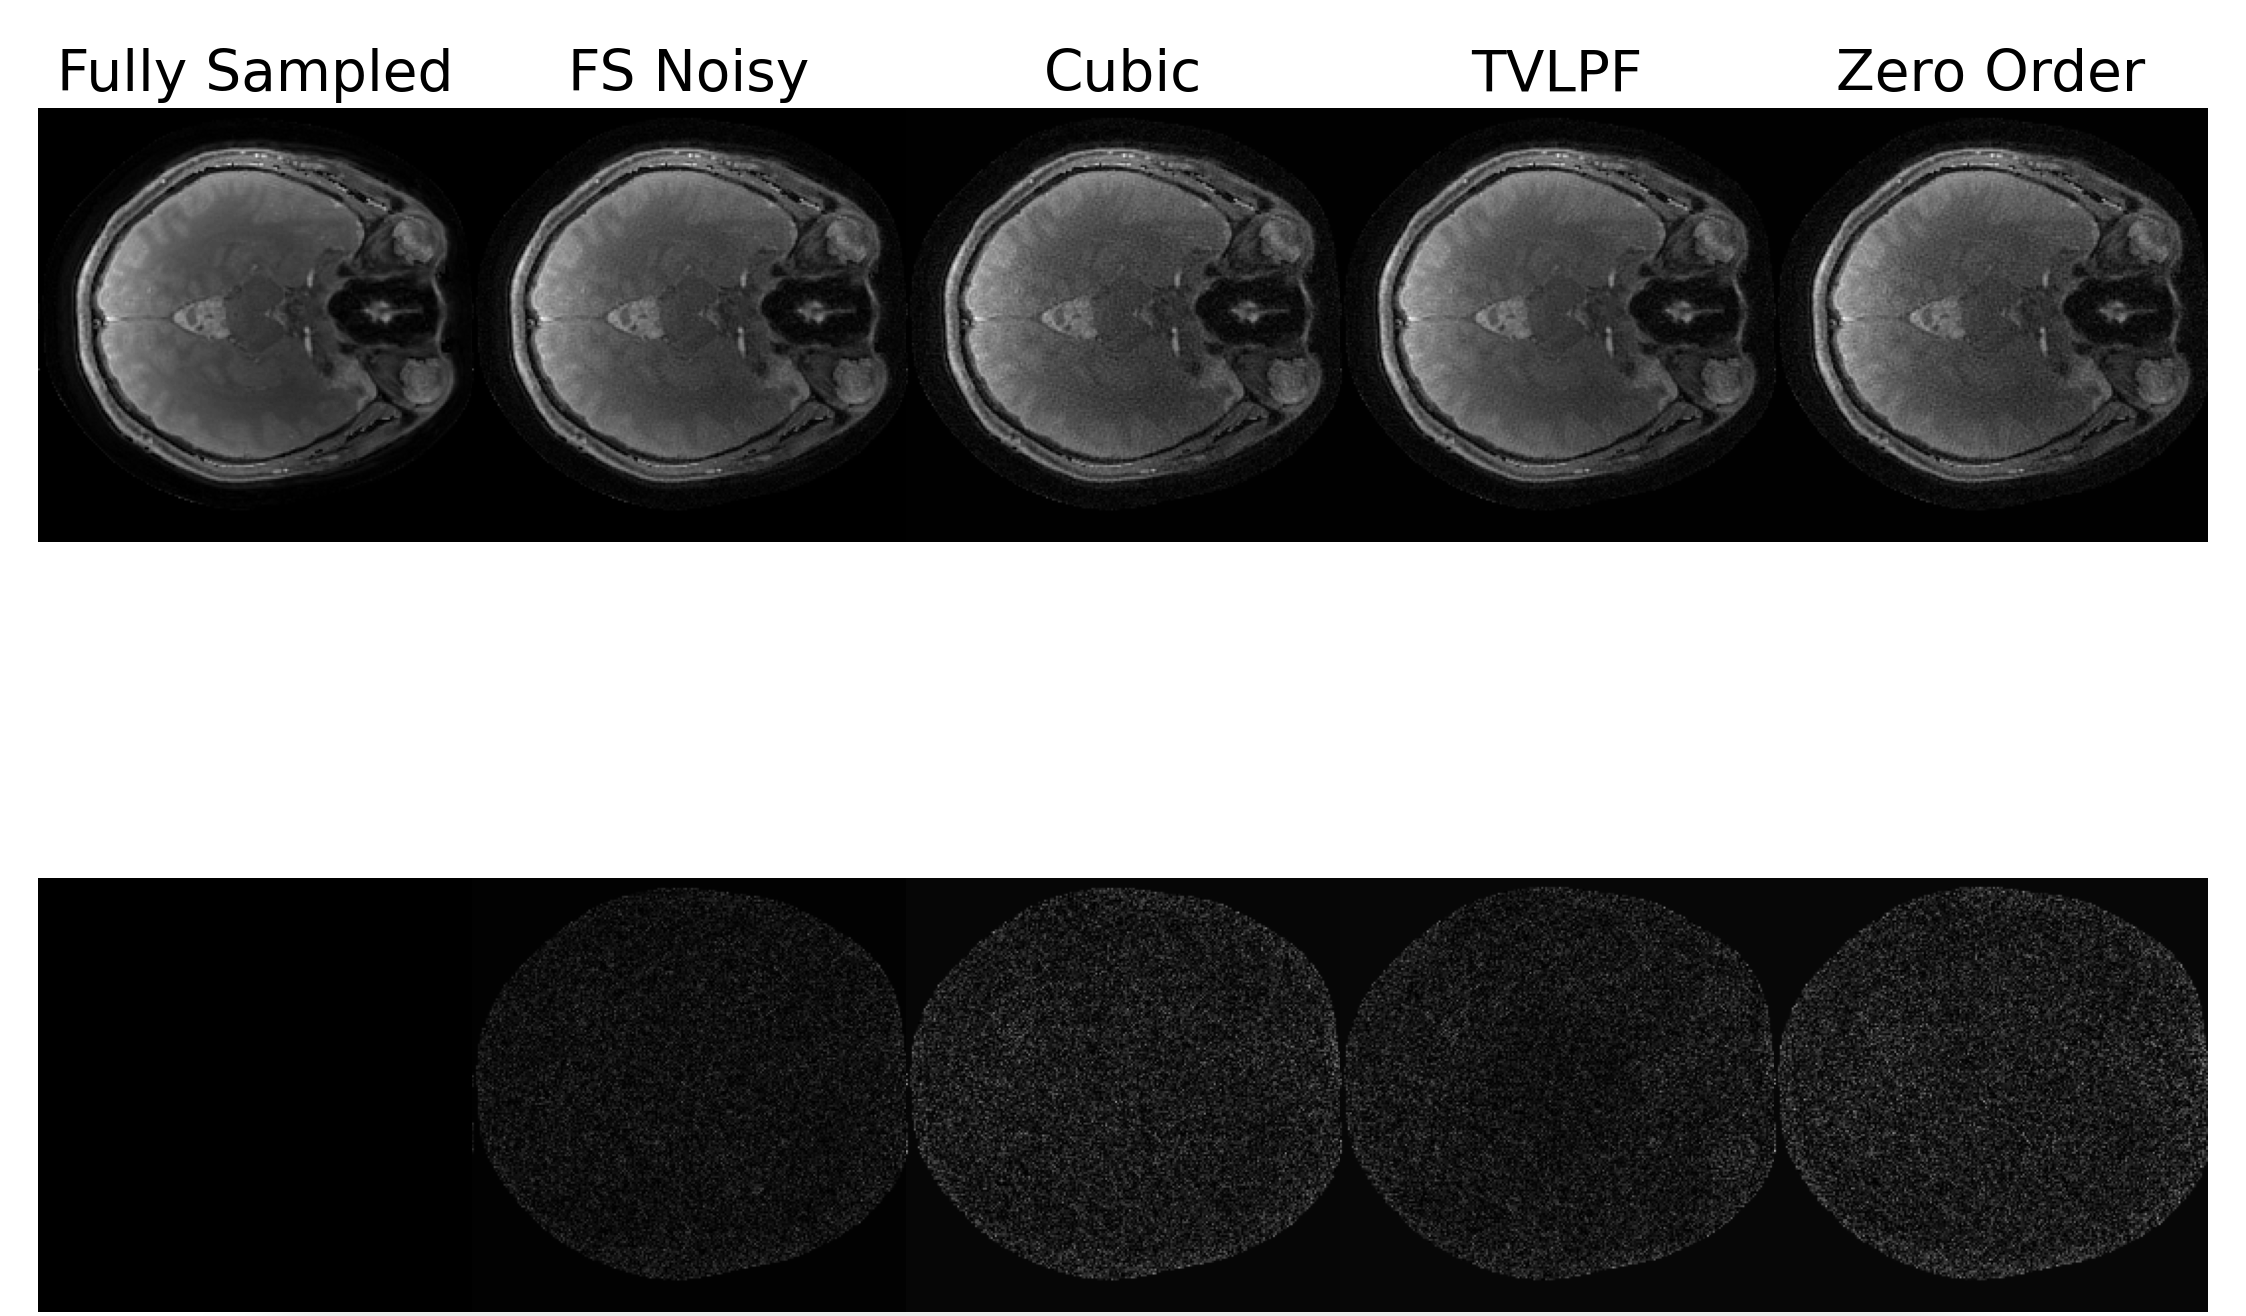
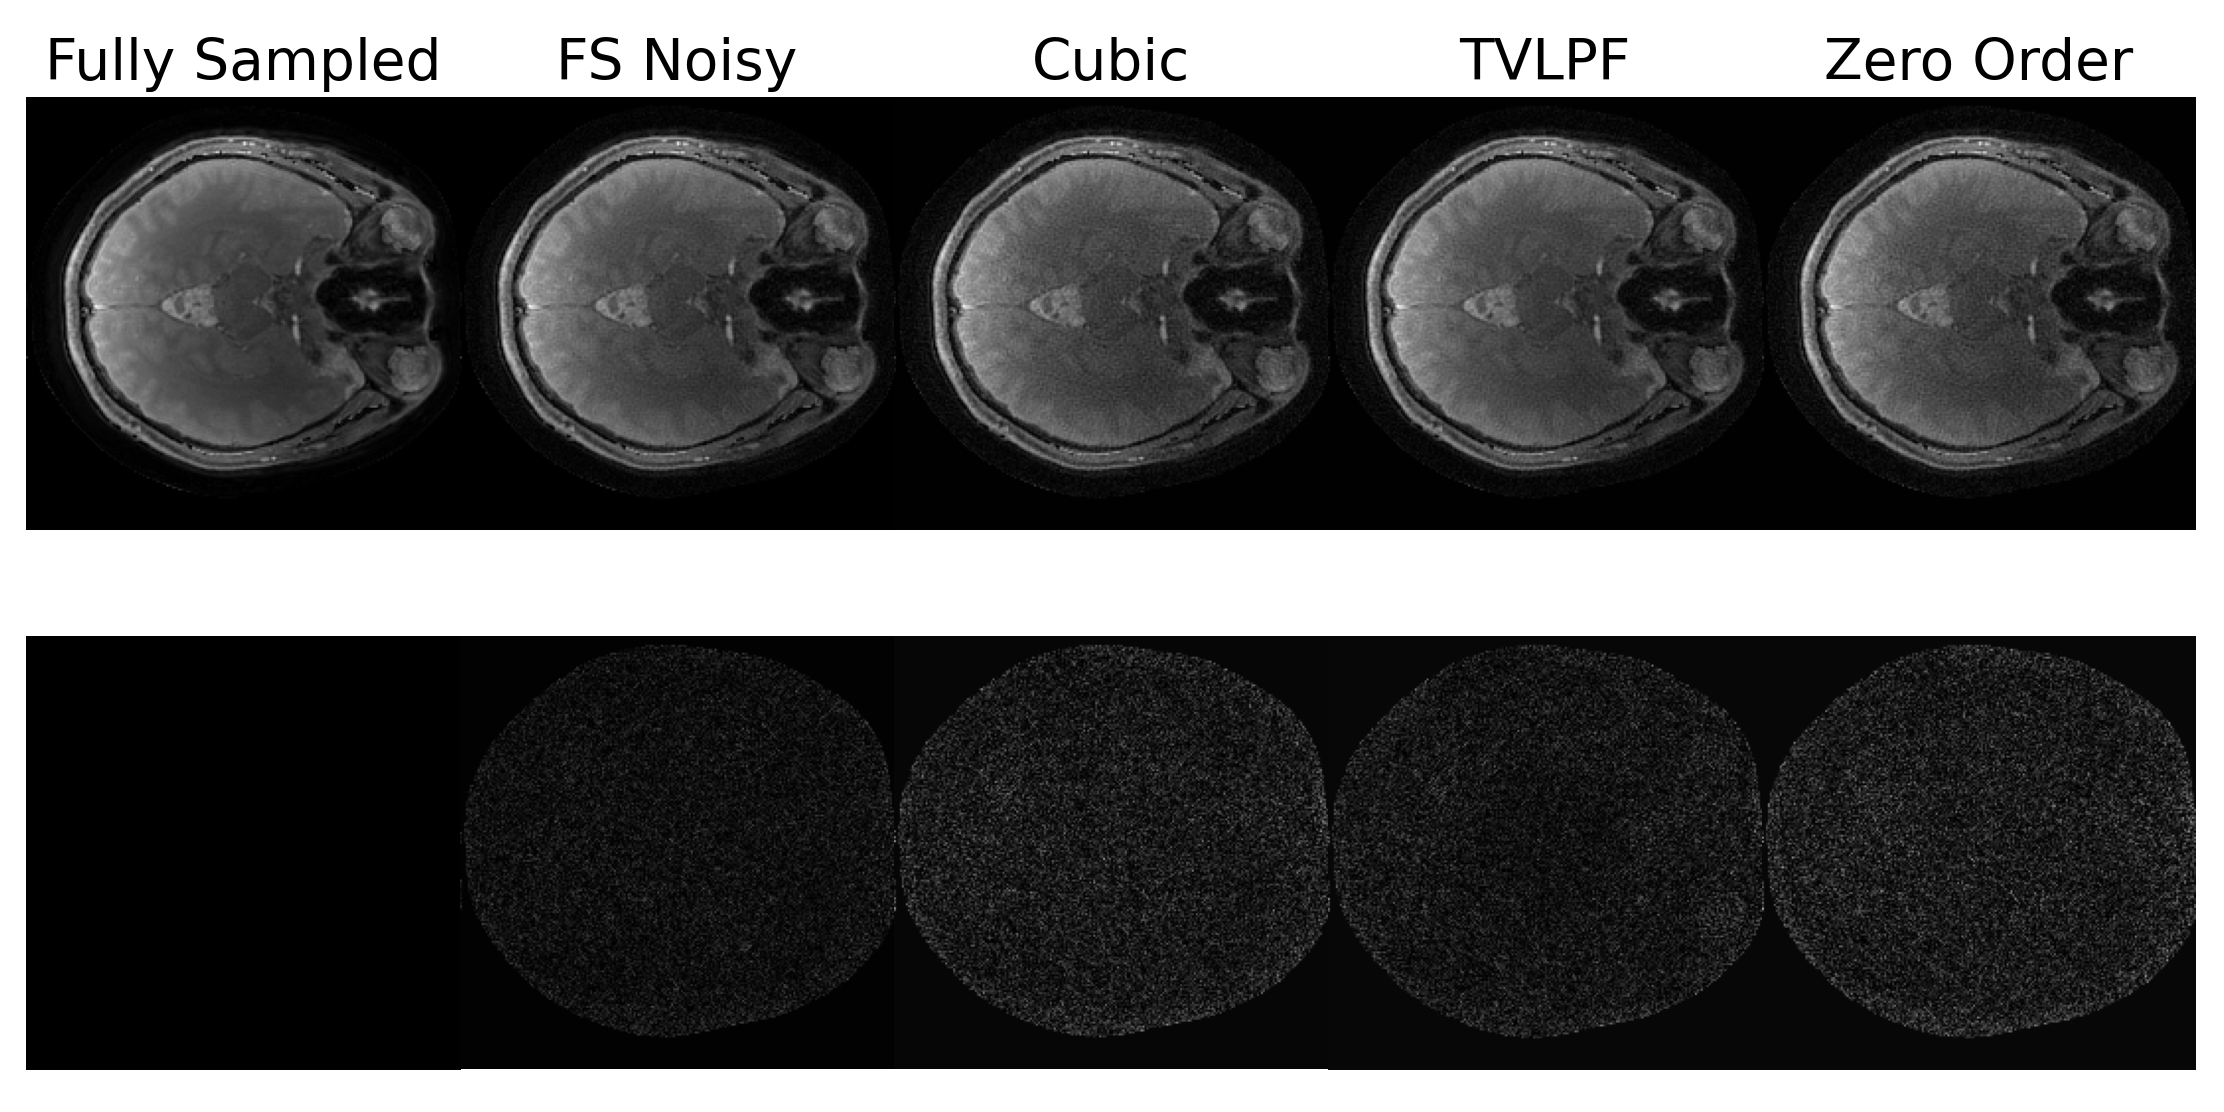
sixX is better

diff --git a/mri/generate_plots.py b/mri/generate_plots.py
@@ -43,7 +43,7 @@ for i, comp_type in enumerate(compressors):
     recons[comp_type], tc_params[comp_type] = dl.recon_from_file(comp_type)
 
 # Plot with plotting util
-pu = plotting_util(recons, tc_params, dt=img_consts['dt'], figsize=(14, 10))
+pu = plotting_util(recons, tc_params, dt=img_consts['dt'], figsize=(14, 7))
 pu.recon_figure()
 # pu.gfactor_error_animation(file_gif)
 # pu.gfactor_error_figure()
